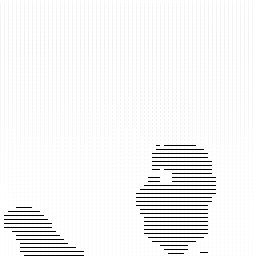
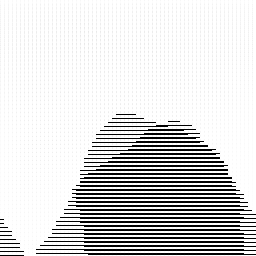
feat: Integrated chest xray pneumonia diagnosis model

Changed region(s): [[0.0, 0.4375, 1.0, 1.0]]

diff --git a/mediAnalytica/core/templates/chest-xray-pneumonia.html b/mediAnalytica/core/templates/chest-xray-pneumonia.html
@@ -1,0 +1,34 @@
+{% extends 'base.html' %} 
+{% load static %} 
+{% block title %}Chest Xray Pneumonia Diagnosis{% endblock title %}  
+
+{% block stylesheet %}
+<link rel="stylesheet" type="text/css" href="../static/css/user_diagnosis.css">
+<link href="https://cdn.jsdelivr.net/npm/bootstrap@5.3.3/dist/css/bootstrap.min.css" rel="stylesheet" integrity="sha384-QWTKZyjpPEjISv5WaRU9OFeRpok6YctnYmDr5pNlyT2bRjXh0JMhjY6hW+ALEwIH" crossorigin="anonymous">
+
+{% endblock stylesheet %}
+
+{% block body %}
+<div class="d-flex flex-row m-5">
+    <div class="d-flex flex-row p-3 border border-warning rounded">
+        <div class="d-flex flex-column">
+            <h3 class="d-flex text-center">Chest Xray Pneumonia Diagnosis</h3>
+            <div class="d-flex flex-column p-3">
+                <form method="post" id="scan-form" action="get-chest-xray-pneumonia-dignosis" enctype="multipart/form-data">
+                    <input class="d-flex m-3" type="file" id="image" name="image" accept="image/*">
+                    <button class="d-flex m-3" type="submit">Upload Image</button>    
+                </form>
+            </div>
+        </div>
+        
+        <div class="d-flex flex-column">
+            {%if scan %}
+            <h3>Scan Result:</h3>
+            <h3>{{ diagnosis }}</h3>
+            {% else %}
+            <h3>No Image Submitted</h3>
+            {% endif %} 
+        </div>
+    </div>
+</div>
+{% endblock body %}

diff --git a/mediAnalytica/core/templates/ct_scan.html b/mediAnalytica/core/templates/ct_scan.html
@@ -1,0 +1,34 @@
+{% extends 'base.html' %} 
+{% load static %} 
+{% block title %}CT Scan{% endblock title %}  
+
+{% block stylesheet %}
+<link rel="stylesheet" type="text/css" href="../static/css/user_diagnosis.css">
+<link href="https://cdn.jsdelivr.net/npm/bootstrap@5.3.3/dist/css/bootstrap.min.css" rel="stylesheet" integrity="sha384-QWTKZyjpPEjISv5WaRU9OFeRpok6YctnYmDr5pNlyT2bRjXh0JMhjY6hW+ALEwIH" crossorigin="anonymous">
+
+{% endblock stylesheet %}
+
+{% block body %}
+<div class="d-flex flex-row m-5">
+    <div class="d-flex flex-row p-3 border border-warning rounded">
+        <div class="d-flex flex-column">
+            <h3 class="d-flex text-center">CT Scan</h3>
+            <div class="d-flex flex-column p-3">
+                <form method="post" id="scan-form" action="get-ct-scan" enctype="multipart/form-data">
+                    <input class="d-flex m-3" type="file" id="image" name="image" accept="image/*">
+                    <button class="d-flex m-3" type="submit">Upload Image</button>    
+                </form>
+            </div>
+        </div>
+        
+        <div class="d-flex flex-column">
+            {%if scan %}
+            <h3>Scan Result:</h3>
+            <img src={% static "output_ct_scan_image.png" %}>
+            {% else %}
+            <h3>No Image Submitted</h3>
+            {% endif %} 
+        </div>
+    </div>
+</div>
+{% endblock body %}

diff --git a/mediAnalytica/core/templates/x_ray.html b/mediAnalytica/core/templates/x_ray.html
@@ -1,0 +1,34 @@
+{% extends 'base.html' %} 
+{% load static %} 
+{% block title %}X-Ray{% endblock title %}  
+
+{% block stylesheet %}
+<link rel="stylesheet" type="text/css" href="../static/css/user_diagnosis.css">
+<link href="https://cdn.jsdelivr.net/npm/bootstrap@5.3.3/dist/css/bootstrap.min.css" rel="stylesheet" integrity="sha384-QWTKZyjpPEjISv5WaRU9OFeRpok6YctnYmDr5pNlyT2bRjXh0JMhjY6hW+ALEwIH" crossorigin="anonymous">
+
+{% endblock stylesheet %}
+
+{% block body %}
+<div class="d-flex flex-row m-5">
+    <div class="d-flex flex-row p-3 border border-warning rounded">
+        <div class="d-flex flex-column">
+            <h3 class="d-flex text-center">X-Ray</h3>
+            <div class="d-flex flex-column p-3">
+                <form method="post" id="scan-form" action="get-x-ray" enctype="multipart/form-data">
+                    <input class="d-flex m-3" type="file" id="image" name="image" accept="image/*">
+                    <button class="d-flex m-3" type="submit">Upload Image</button>    
+                </form>
+            </div>
+        </div>
+        
+        <div class="d-flex flex-column">
+            {%if scan %}
+            <h3>Scan Result:</h3>
+            <img src={% static "output_x_ray_image.png" %}>
+            {% else %}
+            <h3>No Image Submitted</h3>
+            {% endif %} 
+        </div>
+    </div>
+</div>
+{% endblock body %}

diff --git a/mediAnalytica/core/templates/base.html b/mediAnalytica/core/templates/base.html
@@ -35,10 +35,8 @@
                       Scans
                     </a>
                     <ul class="dropdown-menu">
-                      <li><a class="dropdown-item" onclick="checkAuthentication('get-lung-scan', event)">Lung Scan</a></li>
-                      <li><a class="dropdown-item" href="#">X-ray</a></li>
-                      {% comment %} <li><hr class="dropdown-divider"></li> {% endcomment %}
-                      <li><a class="dropdown-item" href="#">CT Scan</a></li>
+                      <li><a class="dropdown-item" onclick="checkAuthentication('get-lung-scan-segmentation', event)">Lung Scan Segmentation</a></li>
+                      <li><a class="dropdown-item" onclick="checkAuthentication('get-chest-xray-pneumonia-dignosis', event)">Chest Xray Pneumonia Diagnosis</a></li>
                     </ul>
                   </li>
                       </ul>

diff --git a/mediAnalytica/core/templates/lung-segmentation.html b/mediAnalytica/core/templates/lung-segmentation.html
@@ -14,7 +14,7 @@
         <div class="d-flex flex-column">
             <h3 class="d-flex text-center">Lungs Scan</h3>
             <div class="d-flex flex-column p-3">
-                <form method="post" id="scan-form" action="get-lung-scan" enctype="multipart/form-data">
+                <form method="post" id="scan-form" action="get-lung-scan-segmentation" enctype="multipart/form-data">
                     <input class="d-flex m-3" type="file" id="image" name="image" accept="image/*">
                     <button class="d-flex m-3" type="submit">Upload Image</button>    
                 </form>

diff --git a/mediAnalytica/core/inference.py b/mediAnalytica/core/inference.py
@@ -7,12 +7,17 @@ import os
 import json
 from django.conf import settings
 from typing import List
+import keras
+
+
 
 class InferenceService:
     def __init__(self):
-        rf_model_path = r"core/weights/symptom_rf.sav"
+        rf_model_path = r"core/static/symptom_rf.sav"
         json_file_path = os.path.join(settings.BASE_DIR, 'data', 'symptoms.json')
-        torch_lung_model_path = r"core/weights/lungmodel.pth"
+        torch_lung_model_path = r"core/static/lungmodel.pth"
+        chest_xray_pneumonia_model_path = r"core/static/pneumonia_chest_xray_model.h5"
+
         with open(rf_model_path, 'rb') as file :
             self.rf_model = pickle.load(file)
 
@@ -24,8 +29,10 @@ class InferenceService:
             transforms.ToTensor(),
             transforms.Normalize(mean=[0.485, 0.456, 0.406], std=[0.229, 0.224, 0.225])
         ])
-        self.model = torch.load(torch_lung_model_path, map_location=torch.device('cpu'))
-        self.model.eval()
+        self.lung_segmentation_model = torch.load(torch_lung_model_path, map_location=torch.device('cpu'))
+        self.lung_segmentation_model.eval()
+
+        self.chest_xray_pneumonia_model=  keras.models.load_model(chest_xray_pneumonia_model_path)
 
     def predict_disease_from_symptom(self, symptoms: List)->str:
         x = np.zeros((1,132))
@@ -39,10 +46,19 @@ class InferenceService:
     def segment_lungs(self, image: Image.Image)->Image.Image:
         image_tensor = self.transform(image).unsqueeze(0)  
         with torch.no_grad():
-            output = self.model(image_tensor)
+            output = self.lung_segmentation_model(image_tensor)
         # output_img = torch.permute(torch.squeeze(output, 0), (1, 2, 0)).numpy()
         output_arr = output[0][0].numpy().astype(int)
         print(f'Generated Mask of shape {output_arr.shape}')
         op_image = Image.fromarray(output_arr, mode='L')
         return op_image
+    
+    def analyse_x_ray(self, image:Image.Image)->Image.Image:
+        return image
+    
+    def analyse_ct_scan(self, image:Image.Image)->Image.Image:
+        return image
 
+    def analyse_chest_xray_for_pneumonia(self,image):
+        prediction = self.chest_xray_pneumonia_model.predict(image)
+        return prediction

diff --git a/mediAnalytica/core/views.py b/mediAnalytica/core/views.py
@@ -120,7 +120,7 @@ def test_query(request):
     # cursor.execute(query)
     return JsonResponse({"resposne" : "Request executed successfully"})
 
-def get_lung_scan(request):
+def get_lung_scan_segmentation(request):
     if request.method == 'POST':
         if 'image' not in request.FILES:
             print("No image in request")
@@ -133,4 +133,25 @@ def get_lung_scan(request):
             context = {'scan': True,}
     else:
         context = {'scan': False,}
-    return render(request, "scan.html", context)
+    return render(request, "lung-segmentation.html", context)
+
+def get_chest_xray_pneumonia_diagnosis(request):
+    img_height = 512
+    img_width = 512
+    if request.method == 'POST':
+        if 'image' not in request.FILES:
+            print("No image in request")
+            return JsonResponse({'error': 'No file part'}, status=400)
+        else:
+            image_file = request.FILES['image']
+            image = np.array(Image.open(BytesIO(image_file.read())))
+            image_reshaped = np.expand_dims(np.stack((reshape_image(image,img_height,img_width),) * 3, axis=-1), axis=0)
+            result = inferServe.analyse_chest_xray_for_pneumonia(image_reshaped)[0][0]
+            print(result)
+            diagnosis = "No Pneumonia"
+            if(result ==1):
+                diagnosis = "Pneumonia"
+            context = {'scan': True, "diagnosis":diagnosis}
+    else:
+        context = {'scan': False,}
+    return render(request, "chest-xray-pneumonia.html", context)

diff --git a/mediAnalytica/core/utils.py b/mediAnalytica/core/utils.py
@@ -1,4 +1,6 @@
 from django.db import connection 
+import numpy as np
+from PIL import Image
 
 cursor = connection.cursor()
 
@@ -29,3 +31,8 @@ def serialize_data(data):
     # print(lst)
     return lst
 
+def reshape_image(image, target_height, target_width):
+    if isinstance(image, np.ndarray):
+        image = Image.fromarray(image)
+    resized_image = image.resize((target_width, target_height), Image.BILINEAR)
+    return np.array(resized_image)

diff --git a/mediAnalytica/core/urls.py b/mediAnalytica/core/urls.py
@@ -11,5 +11,6 @@ urlpatterns = [
     path("add-doctors", views.add_doctors, name = "add_doctors"),
     path("test-query", views.test_query, name = "test_query"),
 
-    path("get-lung-scan", views.get_lung_scan, name="lung-scan")
+    path("get-lung-scan-segmentation", views.get_lung_scan_segmentation, name="lung-scan"),
+    path("get-chest-xray-pneumonia-dignosis", views.get_chest_xray_pneumonia_diagnosis,name="chess-x-ray-pneumonia"), 
 ]
